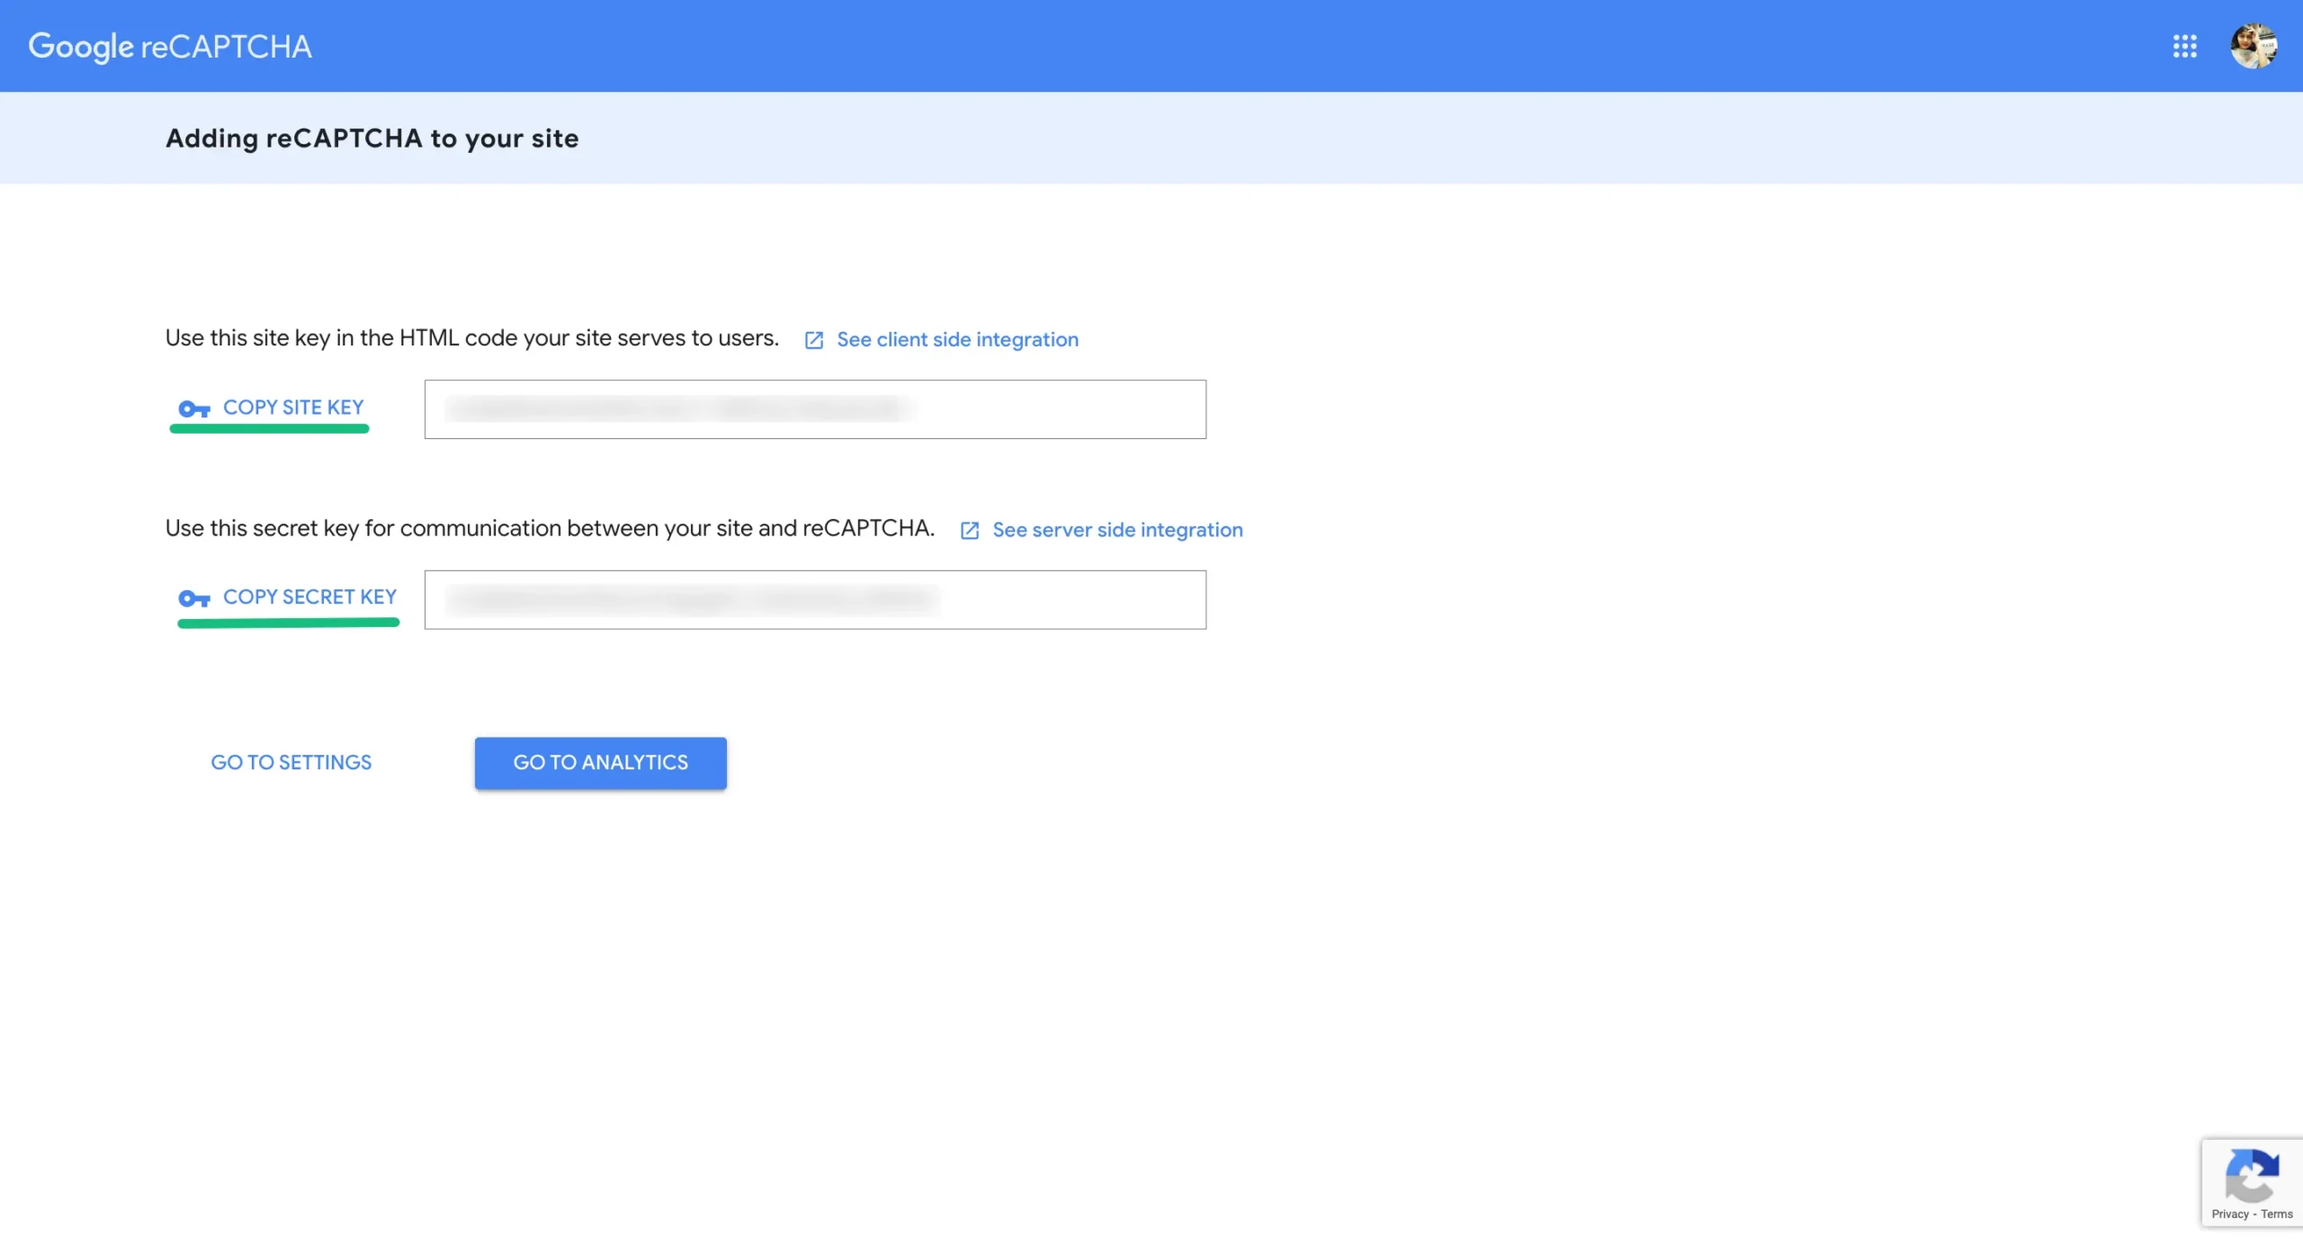
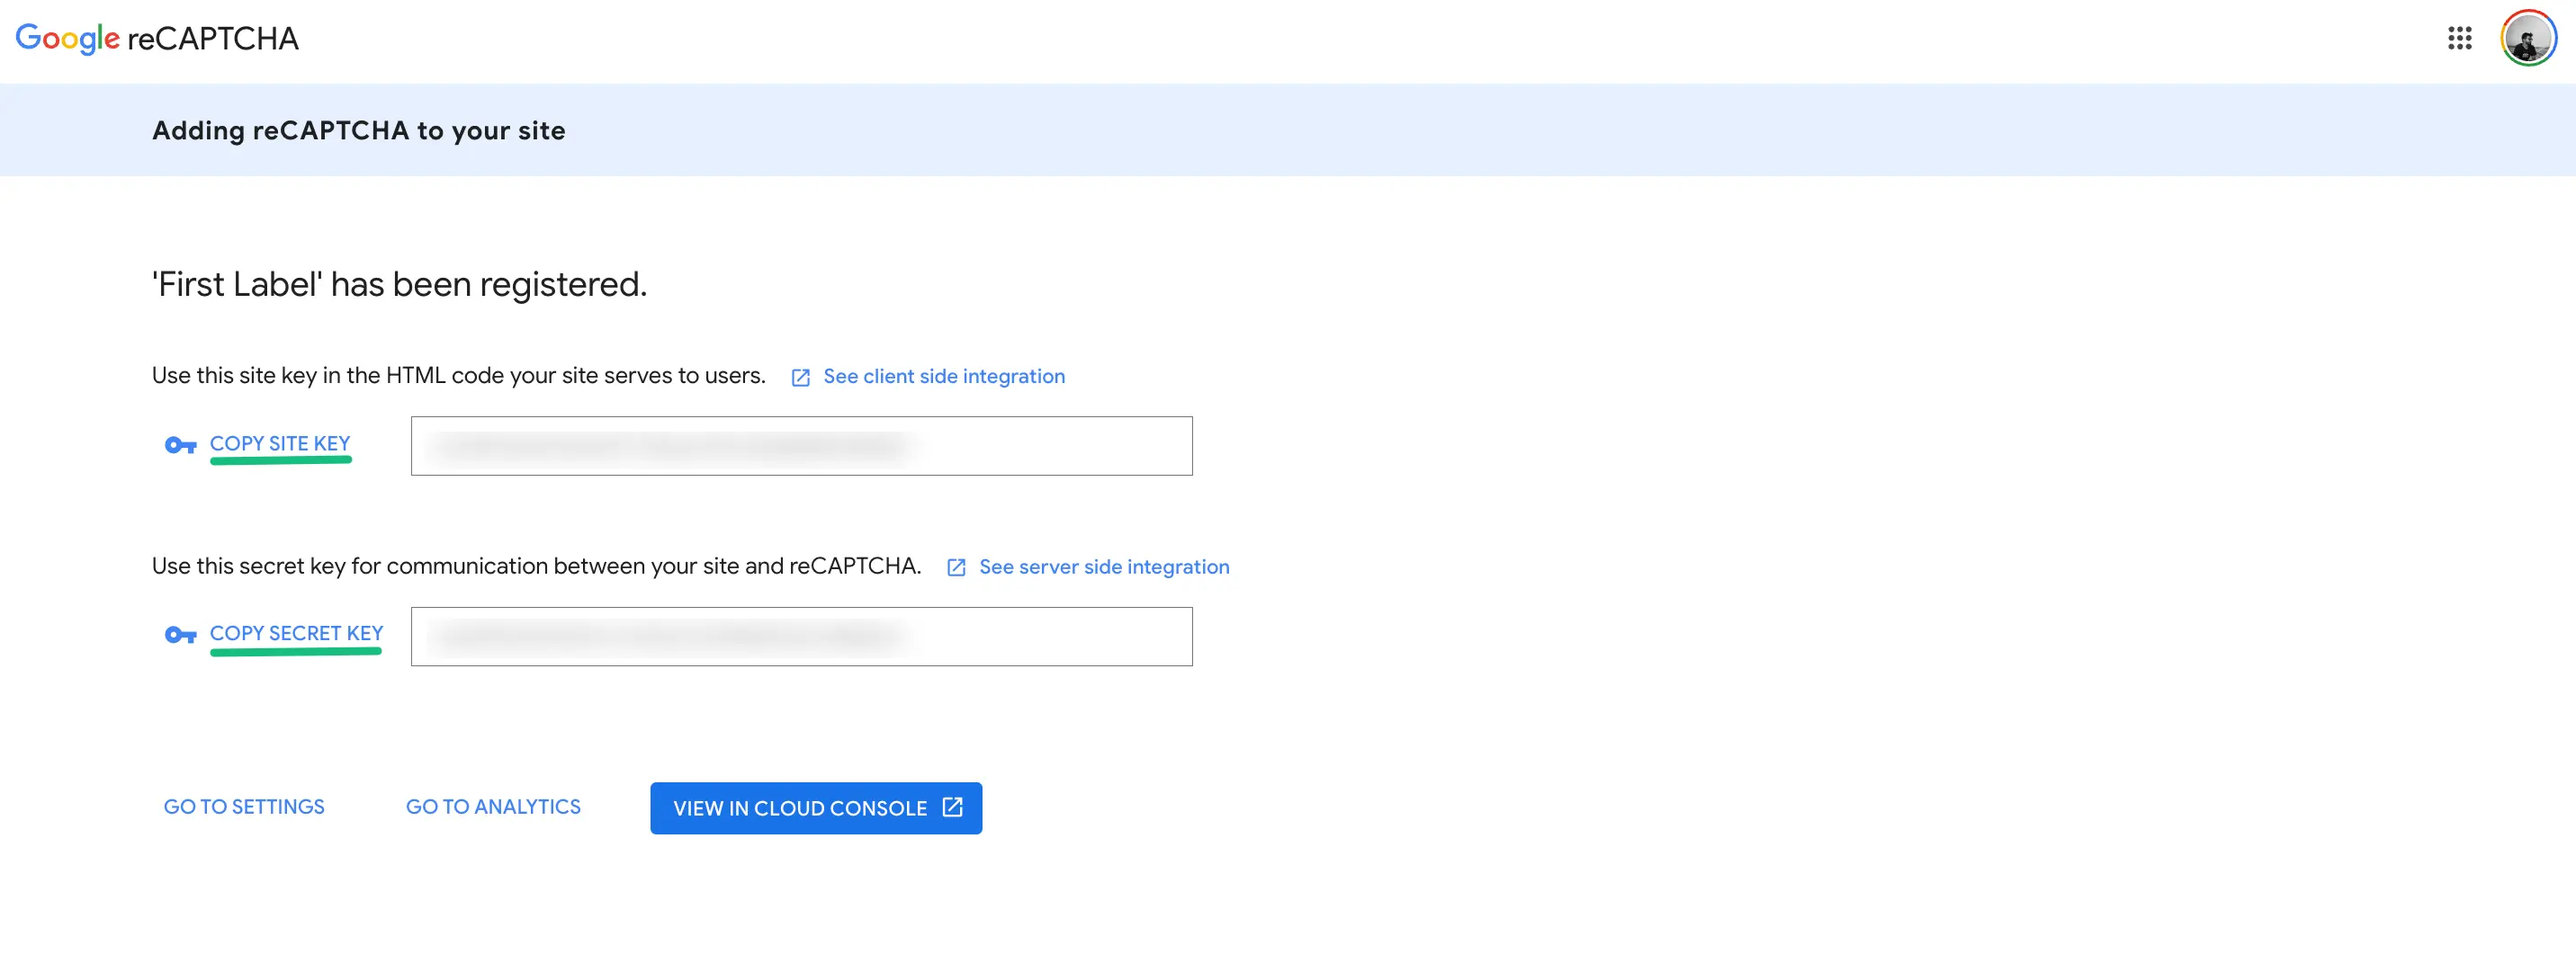
update recapthcha doc

diff --git a/docs/integrations/google-recaptcha-integration.md b/docs/integrations/google-recaptcha-integration.md
@@ -1,46 +1,59 @@
 # Google reCAPTCHA Integration
 
-
 ---
 
-**Fluent Support** allows users to integrate with **Google** **ReCaptcha** to protect their websites from spam. This article will guide you through integrating Google ReCapcha with Fluent Support.
+**Fluent Support** allows you to integrate **Google reCAPTCHA** to protect your support portal from spam and bot submissions. This guide walks you through obtaining your reCAPTCHA keys from the updated Google console and configuring them inside Fluent Support.
 
-## Accessing Google ReCapcha Console 
+> [!NOTE]
+> Google reCAPTCHA is now part of **Google Cloud Fraud Defense**. The interface has been updated, but the integration process in Fluent Support remains straightforward.
 
-Visit the [**Google reCAPCHA**](https://www.google.com/recaptcha/about/) website and click on the **v3 Admin Console**. It will take you to the “**Register a new site”** page where you can choose how to add reCaptcha to your website.
+## Step 1: Access the reCAPTCHA Console
 
-![Accessing Google ReCapcha Console](/images/integrations-channels/other/google-recaptcha-integration/v3-admin-console-scaled-1.webp)
+Visit [**Google reCAPTCHA**](https://www.google.com/recaptcha/about/), now part of **Google Cloud Fraud Defense**. Click the **Fraud Defense Console** button or go directly to the [reCAPTCHA Admin Console](https://www.google.com/recaptcha/admin/create) to register your site.
 
-First, add your **Label** & **Domain** name, select the **Score-based (v3)** or **Challenge (v2)** version, set Google Cloud Project (optional), and finally click the **Submit** button.
+![Google reCAPTCHA – Part of Google Cloud Fraud Defense](/images/integrations-channels/other/google-recaptcha-integration/v3-admin-console-scaled-1.webp)
 
-  * **Label** : Use your **Site URL** that will make it easy to identify the site in the future.
-  * **Domains:** Avoid using **“https://” or “/”** in your domain name as it won’t work, but you are free to use **.com** if needed.
-  * **Google Cloud Platform** : You can also choose a G**oogle Cloud Project** where you want to create this reCAPTCHA.
+## Step 2: Register Your Site
 
-![Register a new site](/images/integrations-channels/other/google-recaptcha-integration/register-a-new-site-page-scaled-1.webp)
+You will land on the **Register a new site** page. Fill in the following fields:
 
-Now you will get a **Copy Site Key** and a **Copy Secret Key**. Copy these keys to use later for integration.
+![Register a new site form](/images/integrations-channels/other/google-recaptcha-integration/register-a-new-site-page-scaled-1.webp)
 
-![Copy Site Key and a Copy Secret Key](/images/integrations-channels/other/google-recaptcha-integration/copy-site-key-and-scret-key-scaled-1.webp)
+- **Label:** Enter a recognizable name for your site (e.g., `example.com`) to easily identify it in your console later.
+- **reCAPTCHA type:** Choose one of the two verification methods:
+  - **Score based (v3):** Verifies requests silently with a score, requiring no user interaction.
+  - **Challenge (v2):** Verifies requests with a visible challenge (e.g., the "I'm not a robot" checkbox).
+- **Domains:** Click the **+** icon to add your domain without the protocol or trailing slash (e.g., `example.com`).
+- **Google Cloud Platform:** Expand this section to associate your new reCAPTCHA setup with a specific Google Cloud project. Use the dropdown menu to select your desired **Project Name**.
 
-## Configure reCAPCHA into Fluent Support 
+Once all required fields are filled out, click the **SUBMIT** button at the bottom of the page.
 
-Now, go to **Settings** from your **Fluent Support Dashboard**, click on **Recaptcha** from the left menu. Enable the reCAPTCHA integration by toggling the **Enable reCAPTCHA** switch.
+## Step 3: Copy Your API Keys
 
-Once enabled, you will need to configure the following settings:
+After successfully registering your site, Google will direct you to a page displaying your integration credentials. You will need to copy two specific keys:
 
- * **reCAPTCHA Version:** Select either **Version 2** or **Version 3** depending on the keys you generated from Google.
- * **Site Key:** **Paste** the Site Key you obtained from the Google reCAPTCHA admin console.
- * **Secret Key:** **Paste** the Secret Key you obtained from the Google reCAPTCHA admin console.
- * **Use reCAPTCHA on:** Choose where you want the **reCAPTCHA** challenge to appear by checking the boxes for **Login Form** and/or **Signup Form**.
+![Copy Site Key and Secret Key](/images/integrations-channels/other/google-recaptcha-integration/copy-site-key-and-scret-key-scaled-1.webp)
 
-After entering your keys, you can verify if the integration works correctly by checking the **Validate Captcha** section at the bottom. It should display the "I'm not a robot" checkbox or badge.
+- **SITE KEY:** Use this key in the HTML code your site serves to users (frontend).
+- **SECRET KEY:** Use this key for communication between your site and reCAPTCHA (backend).
 
-Finally, click on the **Save Settings** button in the top right corner to apply your changes.
+Copy both keys and keep them handy for the next step.
 
-![Configure reCAPCHA into Fluent Support](/images/integrations-channels/other/google-recaptcha-integration/global-settings-recapcha-save-settings-scaled-1.webp)
+## Step 4: Configure reCAPTCHA in Fluent Support
 
-This is how you can integrate your Fluent support with reCAPCHA!  
+Go to your **WordPress Admin** dashboard, navigate to **Fluent Support → Settings**, and click **Recaptcha** from the left menu.
+
+1. Enable the integration by toggling the **Enable reCAPTCHA** switch.
+2. Fill in the settings:
+   - **reCAPTCHA Version:** Select **Version 2** or **Version 3** to match the type you registered in Step 2.
+   - **Site Key:** Paste the SITE KEY you copied from the Google console.
+   - **Secret Key:** Paste the SECRET KEY you copied from the Google console.
+   - **Use reCAPTCHA on:** Check the boxes to indicate where the challenge should appear (e.g., **Login Form** and/or **Signup Form**).
+3. To verify the setup, scroll to the **Validate Captcha** section at the bottom. It should display the reCAPTCHA widget correctly.
+4. Click **Save Settings** in the top right corner to apply your changes.
+
+![Configure reCAPTCHA in Fluent Support Settings](/images/integrations-channels/other/google-recaptcha-integration/global-settings-recapcha-save-settings-scaled-1.webp)
+
+That's it! Your Fluent Support portal is now protected by Google reCAPTCHA.
 
 ---
-
